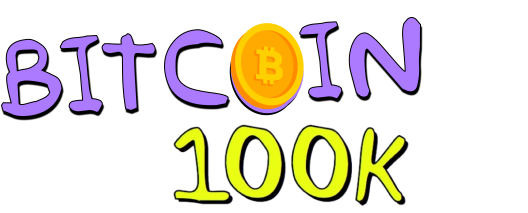
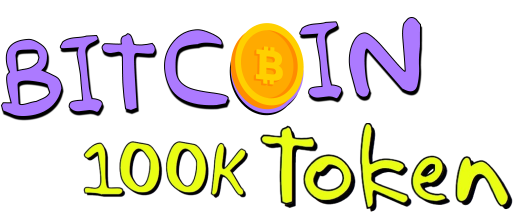
update

Changed region(s): [[0.1515, 0.5634, 0.9697, 1.0]]

diff --git a/index.html b/index.html
@@ -5,7 +5,7 @@
         <meta http-equiv="X-UA-Compatible" content="IE=edge" />
         <meta name="viewport" content="width=device-width, initial-scale=1.0" />
         
-        <title>BTC 100K</title>
+        <title>bitcoin 100K token</title>
         <link rel="icon" href="assets/images/favicon.png" />
         
         <link rel="stylesheet" href="assets/css/bootstrap.min.css">
@@ -105,7 +105,7 @@
                     <div id="carouselExampleControls" class="carousel slide" data-ride="carousel">
                         <div class="carousel-inner">
                           <div class="carousel-item active">
-                            <h4>What is a BTC100k?</h4>
+                            <h4>What is a bitcoin 100K token?</h4>
                             <p>Lorem ipsum dolor sit amet consectetur adipisicing elit. Cupiditate veniam vel sint, autem magnam, officia ipsa voluptatibus animi laudantium fuga saepe sit. Et eos dolorem perspiciatis voluptatibus consequuntur iure enim.</p>
                           </div>
                           <div class="carousel-item">
@@ -115,7 +115,7 @@
                             <p>Lorem, ipsum dolor sit amet consectetur adipisicing elit. Ex, cupiditate aut! Libero saepe fuga, distinctio magnam, cum doloribus itaque blanditiis numquam illo alias, id reprehenderit iure eius aspernatur. Placeat, assumenda!</p>
                           </div>
                           <div class="carousel-item">
-                            <h4> Why does bitcoin 100K?</h4>
+                            <h4> Why does bitcoin 100K token?</h4>
                             <p>Lorem ipsum dolor sit amet consectetur adipisicing elit. Neque at suscipit a tempora praesentium necessitatibus libero rem obcaecati. Pariatur eum labore adipisci, temporibus esse sed! Voluptas animi laboriosam eligendi vero!</p>
                             <p>Lorem ipsum dolor sit amet consectetur adipisicing elit. Similique rem accusantium officia voluptatibus eligendi! Eum blanditiis omnis ipsam laudantium consequuntur id eius eligendi unde non dolorum, excepturi laborum eos perferendis.</p>
                           </div>
@@ -135,7 +135,7 @@
         
         <section class="countdown">
             <img src="assets/images/c-1.png" alt="" class="c-6">
-            <h3>LIVE $BTC100k COUNTDOWN</h3>
+            <h3>LIVE $Bitcoin 100K token COUNTDOWN</h3>
             <h5 class="text-notices" id="notify">loading live data...</h5>
             <div class="countdown-content">
                 <div class="hiddenElement">
@@ -180,10 +180,10 @@
                     <p>Team tokens</p>
                     <h4>0</h4>
                 </div>
-                <div class="right">
+                <!-- <div class="right">
                     <p>Bitcoin Tokens</p>
                     <h4>100k </h4>
-                </div>
+                </div> -->
             </div>
         </section>
         
@@ -392,7 +392,7 @@
                     <a href="#">
                         <img src="assets/images/logo-2.png" alt="logo">
                     </a>
-                    <p>A BTC100k Lorem, ipsum dolor sit amet consectetur adipisicing elit. Maxime dolorum animi, impedit enim nam pariatur, ad cupiditate ullam fugit harum mollitia tempore laborum quasi reiciendis porro sed! Quos, iusto molestias.</p>
+                    <p>A bitcoin 100K token Lorem, ipsum dolor sit amet consectetur adipisicing elit. Maxime dolorum animi, impedit enim nam pariatur, ad cupiditate ullam fugit harum mollitia tempore laborum quasi reiciendis porro sed! Quos, iusto molestias.</p>
                     <div class="social-link">
                         <a href="https://twitter.com">
                             <img src="assets/images/TWITTER.png" alt="">
@@ -432,14 +432,14 @@
                         <div class="social-link">
                             <div class="socials" id="social">
                                 <a href="mailto:support@btchalvingtoken.io">
-                                    <p>support@btc100ktoken.io</p>
+                                    <p>support@bitcoin 100K tokentoken.io</p>
                                 </a>
                         </div>
                     </div>
                 </div>
             </footer>
             <div class="copyright">
-                <p>Copyright © 2024 BTC 100K. All Rights Reserved</p>
+                <p>Copyright © 2024 bitcoin 100K token. All Rights Reserved</p>
             </div>
         </section>
         

diff --git a/test.html b/test.html
@@ -40,17 +40,17 @@
 
     </style>
 
-    <p>BTC <span>100K</span></p>
+    <p>BTC <span>Token</span></p>
     
     
-    <section class="yt-video hiddenElement">
+    <!-- <section class="yt-video hiddenElement">
         <img src="assets/images/c-3.png" alt="" class="c-8">
         <img src="assets/images/btc-invert.png" alt="" class="btc-4">
         
         <div class="yt-bg">
             <iframe width="560" height="315" src="https://www.youtube.com/embed/4LkiOvdwOgg?si=AX54-boltBqWydi_" title="YouTube video player" frameborder="0" allow="accelerometer; autoplay; clipboard-write; encrypted-media; gyroscope; picture-in-picture; web-share" allowfullscreen></iframe>
         </div>
-    </section>
+    </section> -->
     
 </body>
 </html>

diff --git a/assets/css/index.css b/assets/css/index.css
@@ -671,7 +671,7 @@ img{
 .token-content .left::after{
     position: absolute;
     content: url(../images/line.png);
-    left: 14vw;
+    left: 19vw;
     top: 0vw;
 }
 .token-content .right::after{
